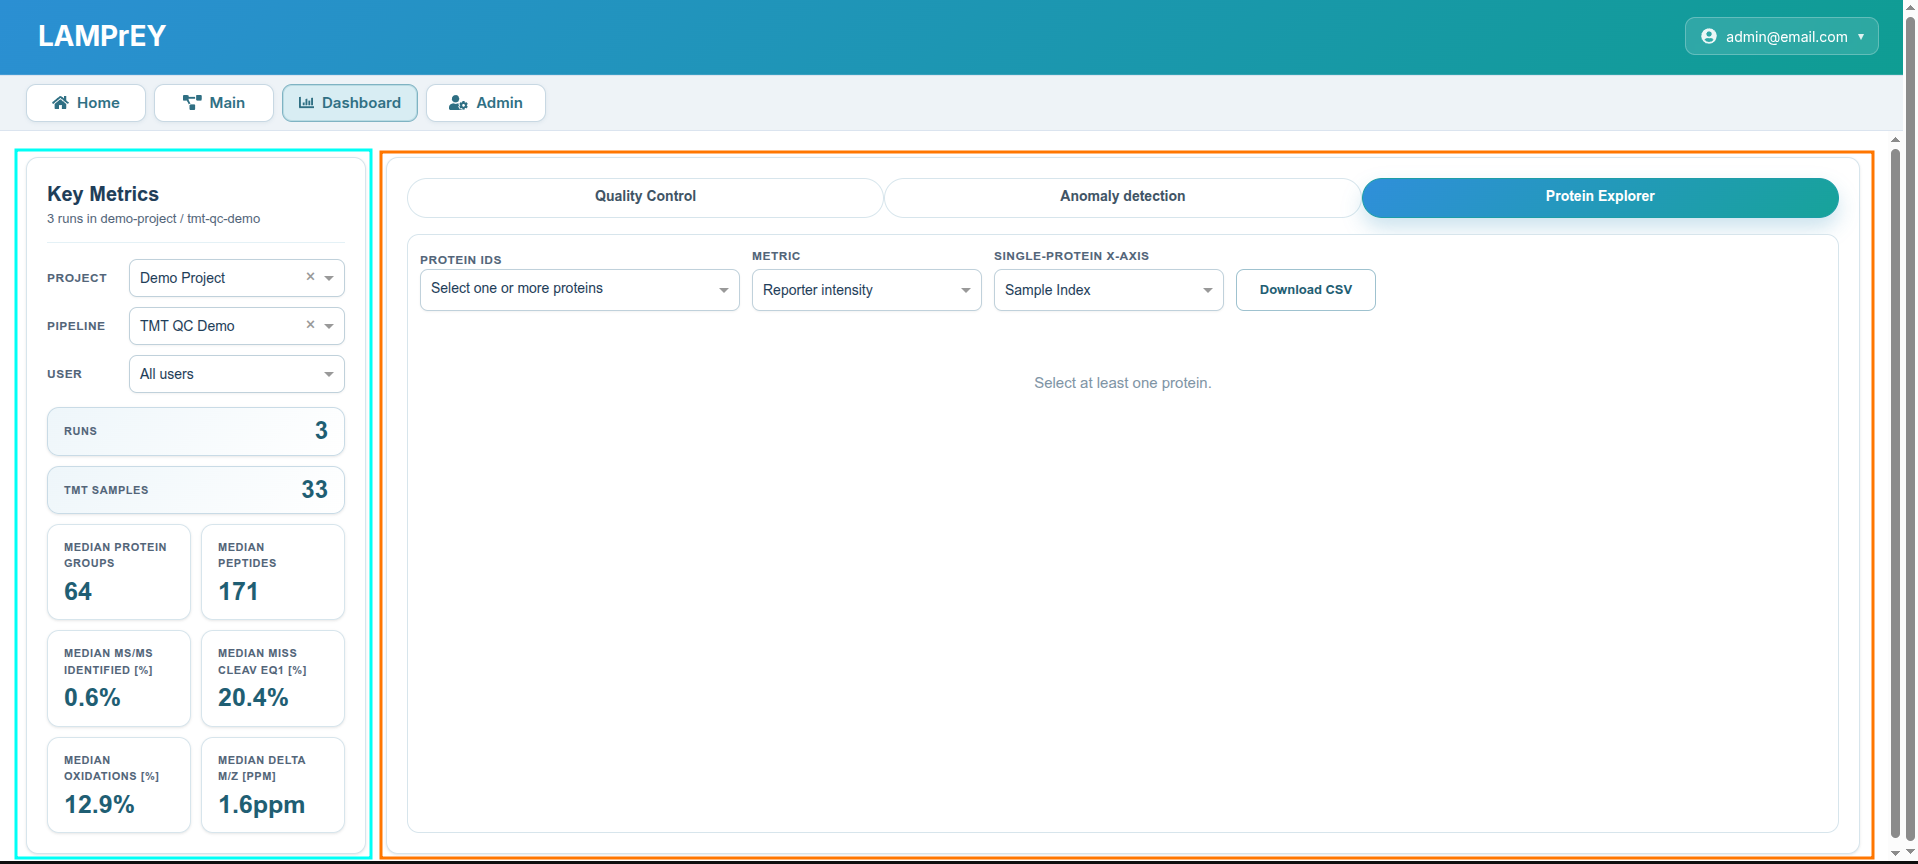
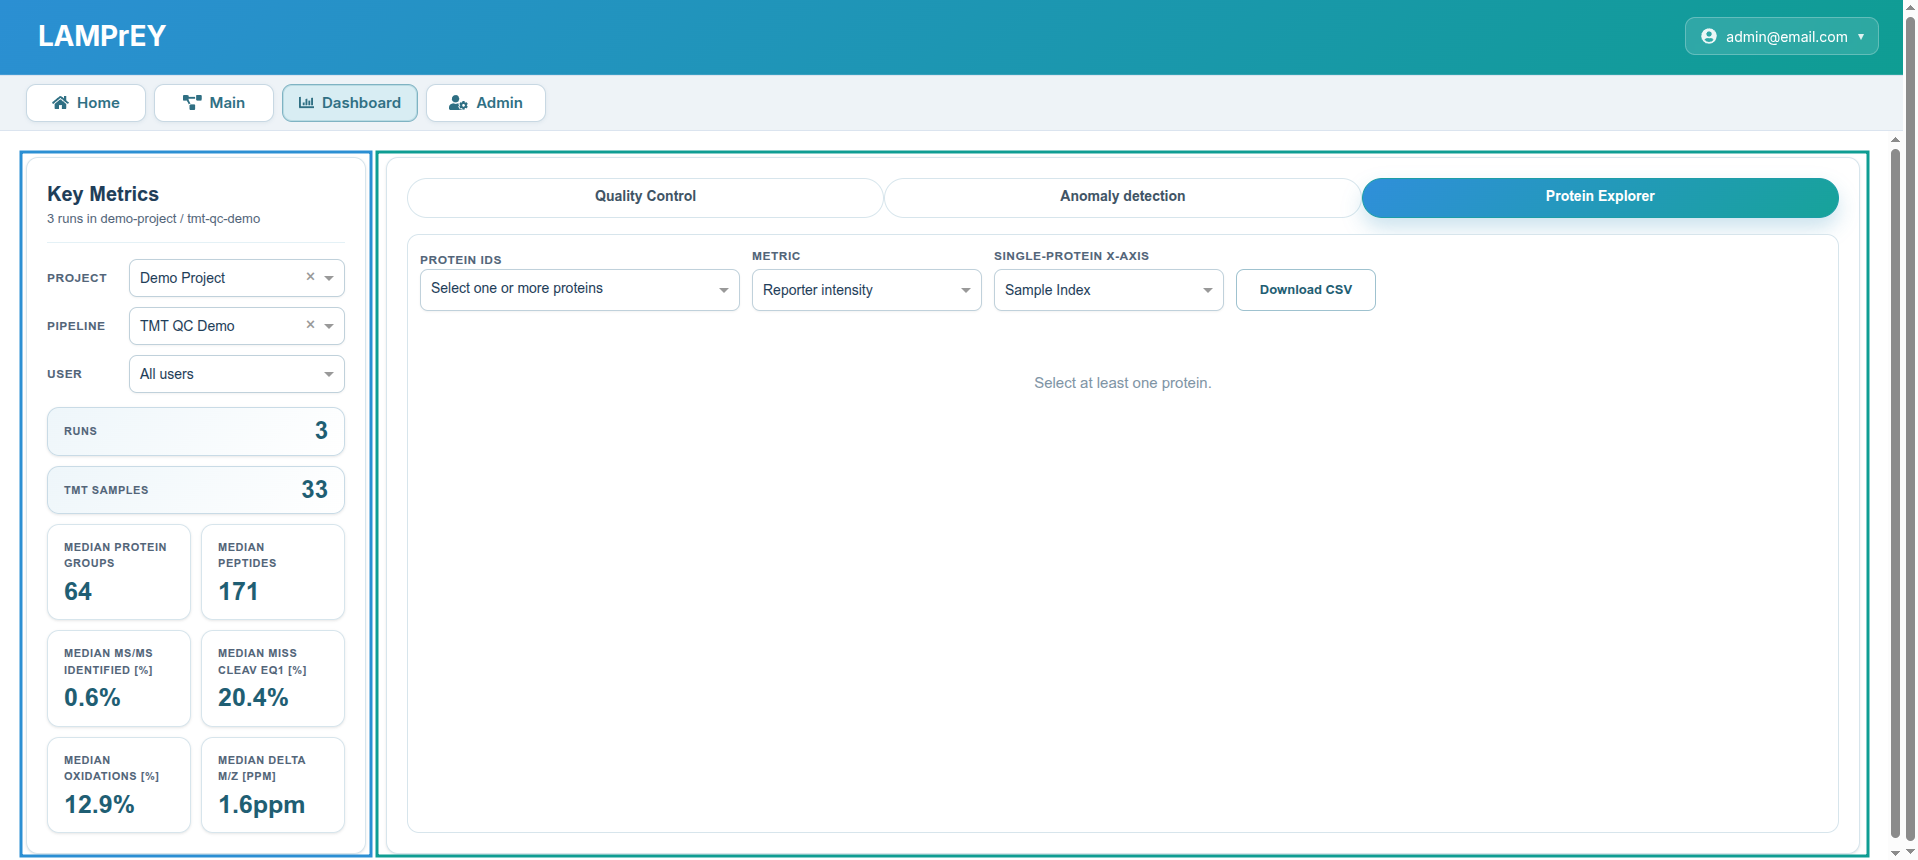
style: Update color scheme for left and right panels in Dashboard documentation

Changed region(s): [[0.0, 0.1209, 1.0, 1.0], [0.5229, 0.4233, 0.646, 0.4535]]

diff --git a/docs/dashboard.md b/docs/dashboard.md
@@ -4,8 +4,8 @@ The **Dashboard** section provides the cross-run analytical view of a pipeline. 
 
 The Dashboard consists of two panels:
 
-- The <span style="color: #00fff6;">left panel</span> includes summary stats for the runs contained within the selected pipeline.
-- The <span style="color: #ff7600;">right panel</span> includes the working area with three tabs: QC Plots, Anomaly detection, and Protein explorer.
+- The <span style="color: #2b8fd3;">left panel</span> includes summary stats for the runs contained within the selected pipeline.
+- The <span style="color: #0f9d93;">right panel</span> includes the working area with three tabs: QC Plots, Anomaly detection, and Protein explorer.
 
 ![](img/dashboard_panels.png)
 
